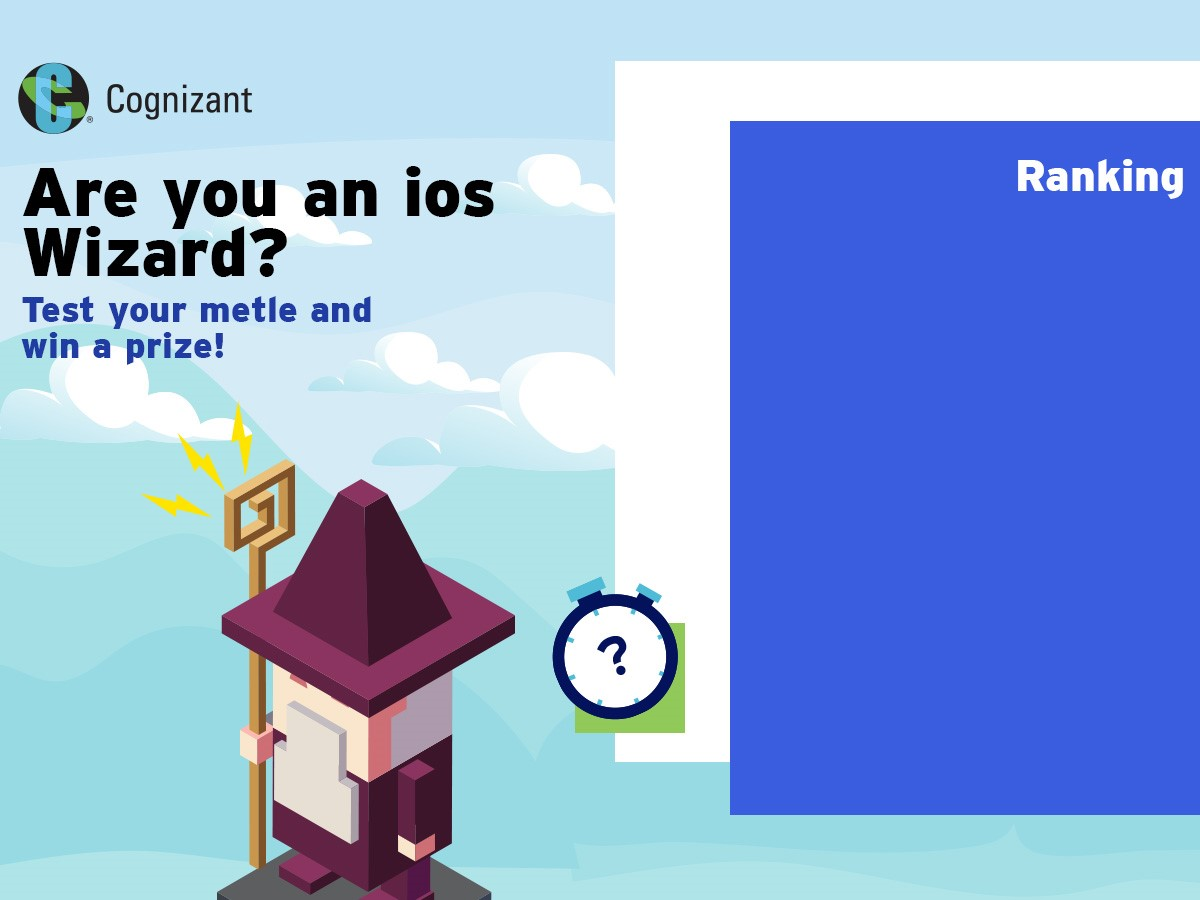
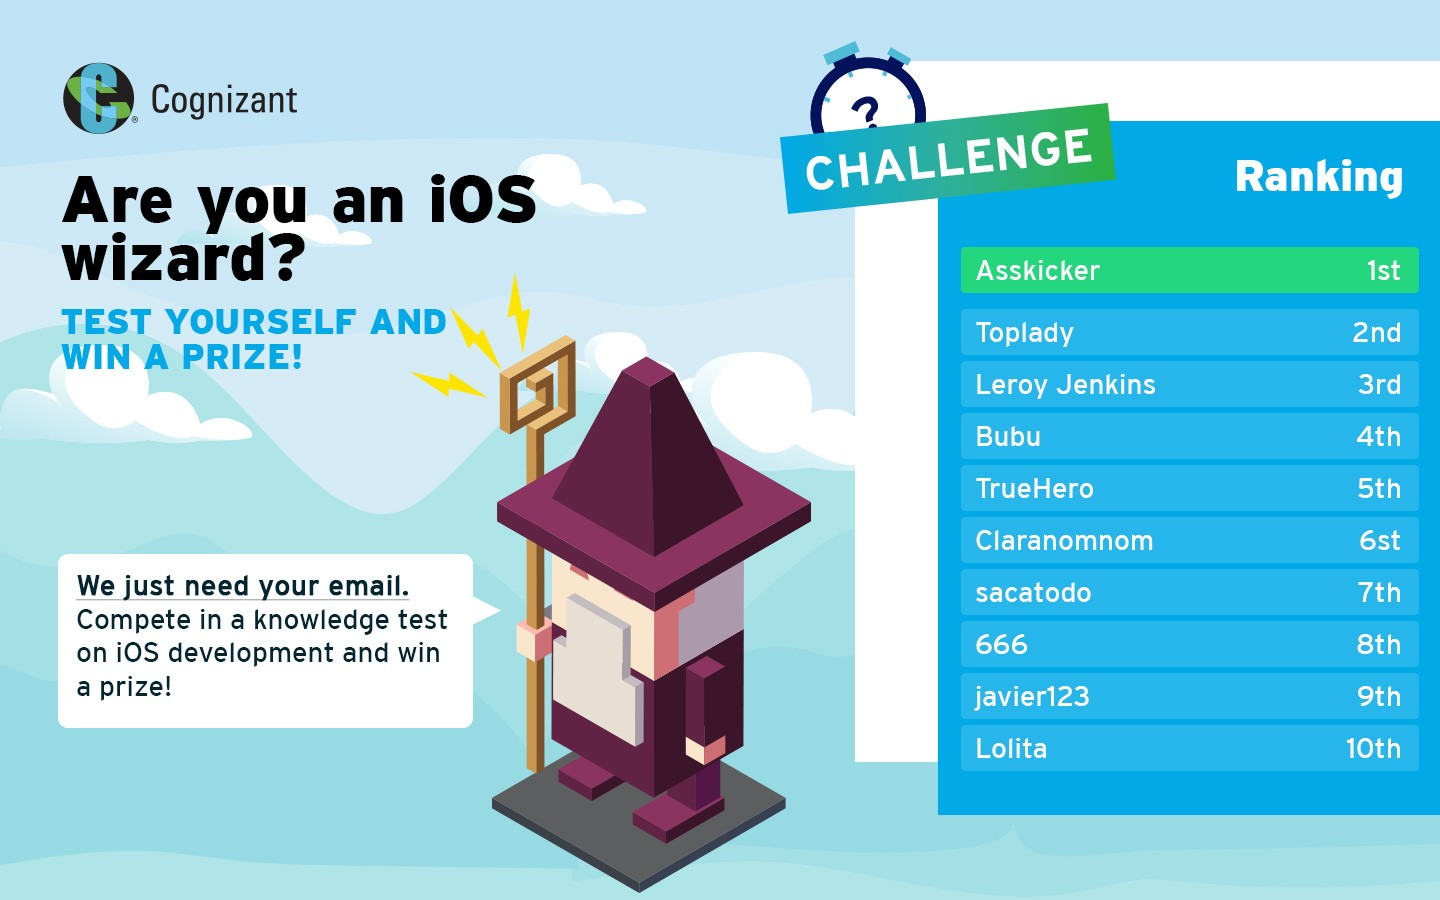
Add styles ranking and backgrounds

diff --git a/app/main.css b/app/main.css
@@ -1,5 +1,5 @@
-html { 
-  background: url(images/background1.jpg) no-repeat center center fixed;
+html {
+  background: url(images/background.jpg) no-repeat center center fixed;
   background-size: auto 100%;
   /*
   -webkit-background-size: cover;
@@ -11,15 +11,75 @@ html {
 
 div.ranking {
   position: absolute;
-  top: 55%;
-  left: 67%;
-  -webkit-transform: translate(-50%, -50%);
-  -moz-transform: translate(-50%, -50%);
-  -ms-transform: translate(-50%, -50%);
-  -o-transform: translate(-50%, -50%);
-  transform: translate(-50%, -50%);
-  width: 15%;
-  color: white;
-  /*background-color: rgb(58,93,223);*/
-  padding: 30px;
+  width: 34%;
+  height: 78%;
+  top: 7%;
+  right: 8%;
+  background-color: white;
 }
+
+div.ranking .container {
+  height: 100%;
+  margin-top: 10%;
+  margin-left: 10%;
+  color: white;
+  background-color: rgb(0, 168, 231);
+}
+
+div.ranking .container p {
+  text-align: right;
+  padding: 5%;
+  margin-bottom: 3%;
+  font-size: 30px;
+  font-weight: bold;
+}
+
+div.ranking .container .contestant {
+  margin: 2% 5%;
+  padding: 1% 5%;
+  font-size: 23px;  
+  background-color: rgb(38, 182, 235);
+  border-radius: 4px 4px 4px 4px;
+  -moz-border-radius: 4px 4px 4px 4px;
+  -webkit-border-radius: 4px 4px 4px 4px;
+}
+
+div.ranking .container .contestant.winners:first-child{
+  margin-bottom: 4%;
+  background-color: rgb(35, 213, 125);
+}
+
+div.ranking .container .contestant span:last-child {
+  float: right;
+}
+
+/*
+body {
+  margin: 0;
+}
+
+.container {
+  width: 100%;
+  height: 100vh;
+  position: relative;
+}
+.container .slide {
+      z-index: 1;
+      position: absolute;
+      width: 100%;
+      top: 0;
+      left: 0;
+      height: 100%;
+      transition: opacity 1s ease-in-out;
+
+      background-position: center center;
+      background-repeat: no-repeat;
+      background-size: cover;
+
+      opacity: 0;
+}
+.container .slide.show {
+          opacity: 1;
+}
+
+*/

diff --git a/app/main.js b/app/main.js
@@ -6,15 +6,21 @@ angular
     
     $scope.status;
     $scope.ranking;
-    $scope.top10;
+    $scope.top;
     $scope.rest;
+    $scope.restNum = 0;
+    $scope.arrayRest = [];
 
     (function getRanking() {
       rankingService.getRanking()
         .then(function(response) {
           response = testData; //test
           $scope.ranking = response.data;
-          getTop10();
+          for (var i=0; i<$scope.ranking.length; i++) {
+            $scope.ranking[i].position = getGetOrdinal(i+1);
+          }
+          getTop();
+          updateRestView();
         }, function(error) {
           $scope.status = 'Unable to load ranking data: ' + error.message;
         });
@@ -22,9 +28,26 @@ angular
       //$timeout(getRanking, 10000);
     }());
 
-    function getTop10() {
-      $scope.top10 = $scope.ranking.slice(0,10);
-      $scope.rest = $scope.ranking.slice(10,$scope.ranking.lenght);
+    function getTop() {
+      var size = 3;
+      $scope.top = $scope.ranking.slice(0,size);
+      $scope.rest = $scope.ranking.slice(size,$scope.ranking.lenght);
+    };
+
+    function updateRestView() {
+      var size = 10;
+      for (var i=0; i<$scope.rest.length; i++) {
+        $scope.arrayRest[$scope.restNum] = $scope.rest.slice(i,i+size);
+        $scope.restNum++;
+        i+=size;
+      }
+      //console.log($scope.arrayRest);
+    };
+
+    function getGetOrdinal(n) {
+      var s=["th","st","nd","rd"],
+          v=n%100;
+      return n+(s[(v-20)%10]||s[v]||s[0]);
     };
 
     var testData = {

diff --git a/app/index.html b/app/index.html
@@ -7,18 +7,22 @@
   </head>
   <body>
     <div class="ranking" ng-controller="mainCtrl">
-      <p>Top 10</p>        
-      <div ng-repeat="contestant in top10">
-        <span>{{ contestant.nick }}</span>
-        <span>{{ contestant.score }}</span>          
+      <div class="container">
+        <p>Ranking</p>
+        <div>
+          <div class="contestant winners" ng-repeat="contestant in top">
+            <span>{{ contestant.nick }}</span>
+            <span>{{ contestant.position }}</span>
+          </div>
+        </div>
+        <br>
+        <div ng-repeat="rest in arrayRest">
+          <div class="contestant" class="rest" ng-repeat="contestant in rest">
+            <span>{{ contestant.nick }}</span>
+            <span>{{ contestant.position }}</span>
+          </div>
+        </div>
       </div>
-      <br>
-      <p>Rest</p>
-      <div ng-repeat="contestant in rest">
-        <span>{{ contestant.nick }}</span>
-        <span>{{ contestant.score }}</span>          
-      </div>
-    </div>
     </div>
     <script type="text/javascript" src="/node_modules/angular/angular.min.js"></script>
     <script type="text/javascript" src="/app/main.js"></script>
